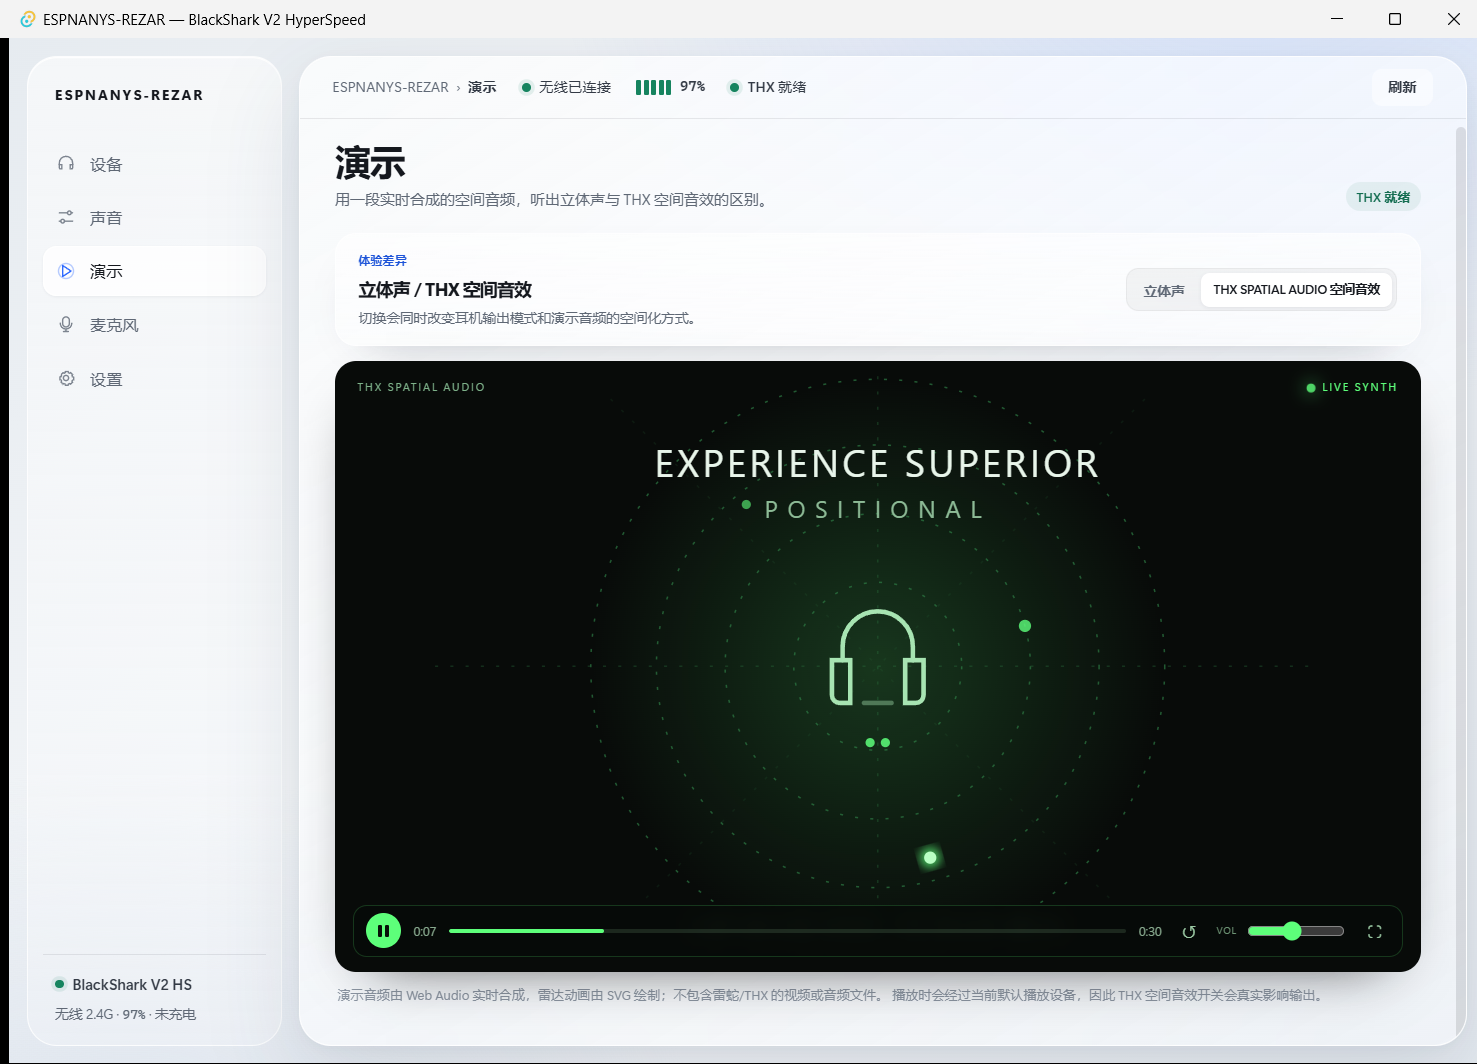
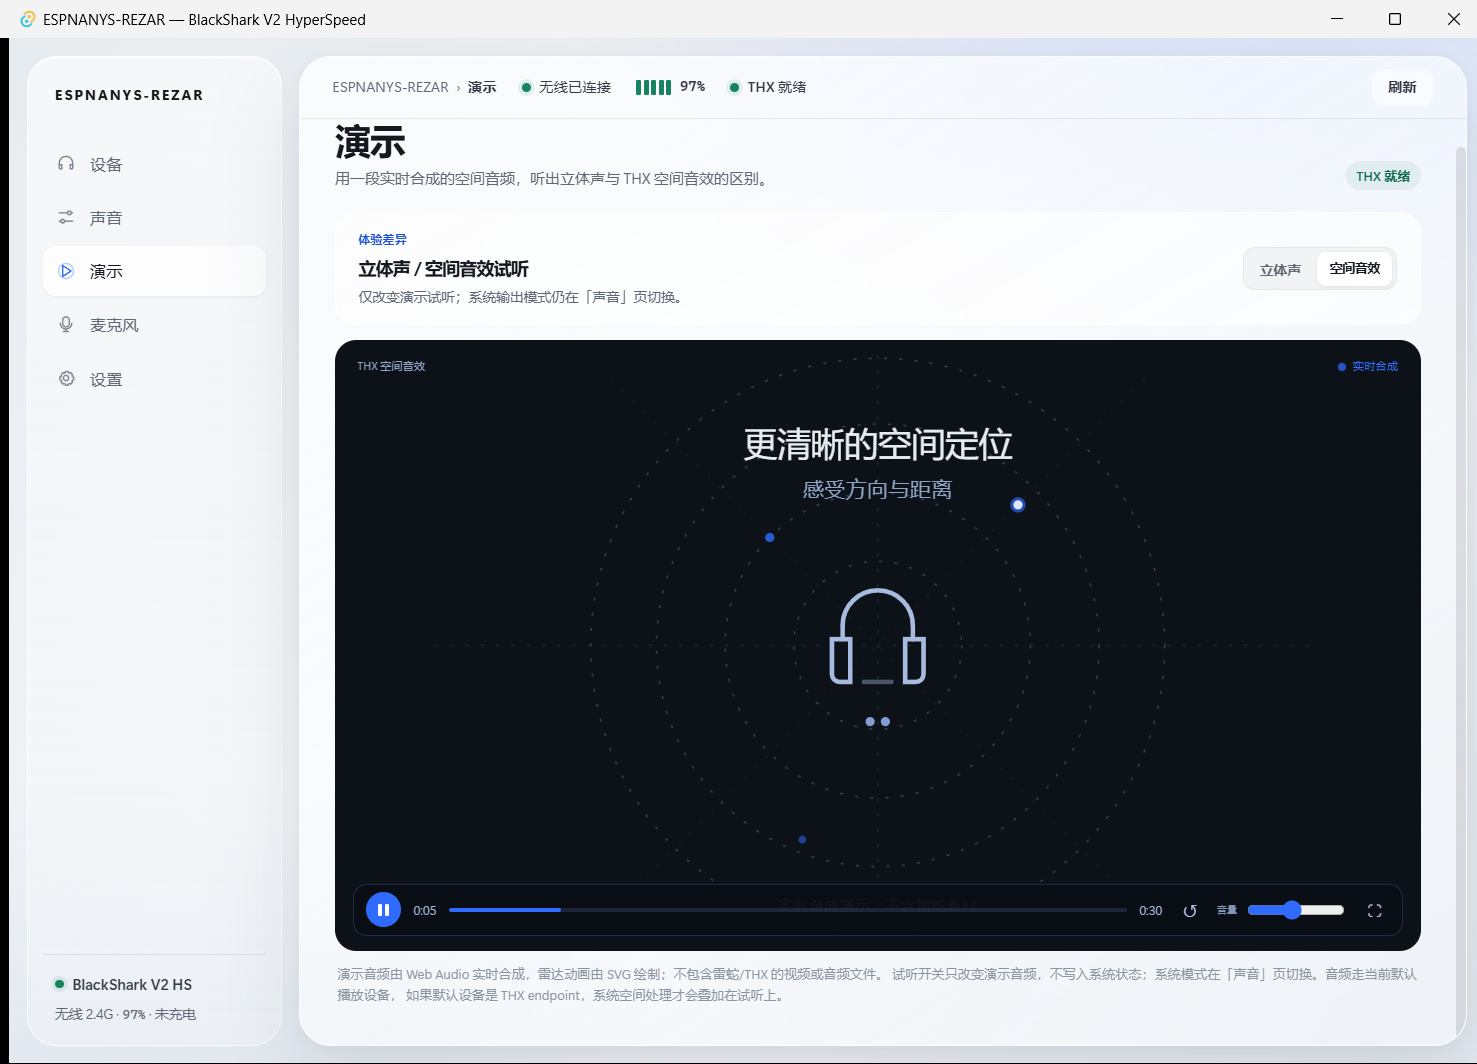
Harden demo audition and align it with the design system

diff --git a/ui/src/lib/components/DemoPanel.svelte b/ui/src/lib/components/DemoPanel.svelte
@@ -23,12 +23,13 @@
   let angle = $state(0);
   let volume = $state(45);
   let audioError = $state("");
+  let startPending = false;
+  let demoSpatial = $state(false);
+  let initialized = false;
 
   let available = $derived(!!device.thx?.installed);
-  let spatial = $derived(device.thx?.spatialEnabled ?? false);
   let timeText = $derived(formatTime(elapsed % 30));
   let progress = $derived(((elapsed % 30) / 30) * 100);
-  let canToggleSpatial = $derived(available && !device.busy && device.thx?.spatialEnabled !== null);
 
   function formatTime(value: number): string {
     const total = Math.max(0, Math.floor(value));
@@ -64,8 +65,18 @@
     const stereoPannerNode = context.createStereoPanner();
     stereoPannerNode.pan.value = 0;
     const stereoLevel = context.createGain();
-    stereoLevel.gain.value = spatial ? 0 : 1;
-    stereoPannerNode.connect(stereoLevel);
+    stereoLevel.gain.value = demoSpatial ? 0 : 1;
+    // A short right-channel delay gives the stereo audition a real L/R width
+    // instead of a single mono image. The spatial path uses HRTF below.
+    const stereoWidth = context.createDelay(0.05);
+    stereoWidth.delayTime.value = 0.012;
+    const splitter = context.createChannelSplitter(2);
+    const merger = context.createChannelMerger(2);
+    stereoPannerNode.connect(splitter);
+    splitter.connect(merger, 0, 0);
+    splitter.connect(stereoWidth, 0, 0);
+    stereoWidth.connect(merger, 0, 1);
+    merger.connect(stereoLevel);
 
     const spatialPannerNode = context.createPanner();
     spatialPannerNode.panningModel = "HRTF";
@@ -74,7 +85,7 @@
     spatialPannerNode.maxDistance = 10;
     spatialPannerNode.rolloffFactor = 1.1;
     const spatialLevel = context.createGain();
-    spatialLevel.gain.value = spatial ? 1 : 0;
+    spatialLevel.gain.value = demoSpatial ? 1 : 0;
     spatialPannerNode.connect(spatialLevel);
 
     const output = context.createGain();
@@ -95,8 +106,8 @@
   function applyMode() {
     if (!audio || !stereoBranch || !spatialBranch) return;
     const now = audio.currentTime;
-    stereoBranch.gain.setTargetAtTime(spatial ? 0 : 1, now, 0.02);
-    spatialBranch.gain.setTargetAtTime(spatial ? 1 : 0, now, 0.02);
+    stereoBranch.gain.setTargetAtTime(demoSpatial ? 0 : 1, now, 0.02);
+    spatialBranch.gain.setTargetAtTime(demoSpatial ? 1 : 0, now, 0.02);
   }
 
   function applyVolume() {
@@ -107,7 +118,9 @@
   function tick() {
     if (!playing || !audio) return;
     elapsed = Math.max(0, audio.currentTime - startedAt);
-    angle = (elapsed * 62) % 360;
+    // The stereo audition stays centered; only the spatial path orbits, so the
+    // visual difference matches the audible A/B.
+    angle = demoSpatial ? (elapsed * 62) % 360 : 0;
     if (panner) {
       const radians = (angle * Math.PI) / 180;
       panner.setPosition(Math.cos(radians) * 2.2, 0, Math.sin(radians) * 2.2);
@@ -116,6 +129,9 @@
   }
 
   async function play() {
+    if (startPending) return;
+    startPending = true;
+    audioError = "";
     try {
       const context = ensureAudio();
       await context.resume();
@@ -124,8 +140,8 @@
         next.buffer = makePingBuffer(context);
         next.loop = true;
         const input = context.createGain();
-        // The branch gains already carry the mode; this node is the shared mono
-        // source for both the stereo and HRTF paths.
+        // This shared mono input feeds both the fixed stereo panner and the
+        // animated HRTF panner; the branch gains select the audible path.
         next.connect(input);
         input.connect(stereoPanner as StereoPannerNode);
         input.connect(panner as PannerNode);
@@ -139,6 +155,8 @@
       tick();
     } catch (error) {
       audioError = error instanceof Error ? error.message : String(error);
+    } finally {
+      startPending = false;
     }
   }
 
@@ -150,13 +168,15 @@
   }
 
   function togglePlay() {
+    if (startPending) return;
     if (playing) void pause();
     else void play();
   }
 
-  async function toggleSpatial(enabled: boolean) {
-    if (!canToggleSpatial) return;
-    await device.setSpatial(enabled);
+  function toggleSpatial(enabled: boolean) {
+    // Audition-only switch: it must work without THX installed and must not
+    // mutate the system output mode. The real switch lives on the Sound page.
+    demoSpatial = enabled;
   }
 
   async function toggleFullscreen() {
@@ -185,7 +205,17 @@
   }
 
   $effect(() => {
+    // Seed the audition mode from the system once, then keep the demo local.
+    if (!initialized && device.thx) {
+      demoSpatial = device.thx.spatialEnabled ?? false;
+      initialized = true;
+    }
+  });
+
+  $effect(() => {
     // Keep the branch gains and volume in sync without rebuilding the graph.
+    demoSpatial;
+    volume;
     applyMode();
     applyVolume();
   });
@@ -217,46 +247,34 @@
   <section class="demo-controls" aria-labelledby="demo-mode-title">
     <div>
       <div class="eyebrow">体验差异</div>
-      <h2 id="demo-mode-title">立体声 / THX 空间音效</h2>
-      <p>切换会同时改变耳机输出模式和演示音频的空间化方式。</p>
+      <h2 id="demo-mode-title">立体声 / 空间音效试听</h2>
+      <p>仅改变演示试听；系统输出模式仍在「声音」页切换。</p>
     </div>
-    <div class="preset-seg demo-seg" role="group" aria-label="演示输出模式">
+    <div class="preset-seg demo-seg" role="group" aria-label="演示试听模式">
       <button
         type="button"
-        class:on={!spatial}
-        disabled={!canToggleSpatial}
-        aria-pressed={!spatial}
+        class:on={!demoSpatial}
+        aria-pressed={!demoSpatial}
         onclick={() => toggleSpatial(false)}
       >立体声</button>
       <button
         type="button"
-        class:on={spatial}
-        disabled={!canToggleSpatial}
-        aria-pressed={spatial}
+        class:on={demoSpatial}
+        aria-pressed={demoSpatial}
         onclick={() => toggleSpatial(true)}
-      >THX SPATIAL AUDIO 空间音效</button>
+      >空间音效</button>
     </div>
   </section>
 
   <div class="demo-stage" class:playing bind:this={stageEl}>
     <div class="demo-stage-top">
-      <span>THX SPATIAL AUDIO</span>
-      <span class="demo-live"><i></i> LIVE SYNTH</span>
+      <span>THX 空间音效</span>
+      <span class="demo-live"><i></i> 实时合成</span>
     </div>
 
     <svg class="demo-radar" viewBox="0 0 600 400" role="img" aria-label="空间音频演示雷达">
-      <defs>
-        <radialGradient id="demo-glow" cx="50%" cy="50%" r="50%">
-          <stop offset="0%" stop-color="#5dff7a" stop-opacity=".18" />
-          <stop offset="100%" stop-color="#5dff7a" stop-opacity="0" />
-        </radialGradient>
-        <filter id="demo-blur">
-          <feGaussianBlur stdDeviation="3" />
-        </filter>
-      </defs>
-      <rect width="600" height="400" fill="#080b09" />
-      <circle cx="300" cy="200" r="188" fill="url(#demo-glow)" />
-      <g fill="none" stroke="#2c7a43" stroke-width="1" stroke-dasharray="2 8" opacity=".7">
+      <rect width="600" height="400" fill="#0d1118" />
+      <g fill="none" stroke="rgba(157, 192, 255, 0.26)" stroke-width="1" stroke-dasharray="2 8">
         <circle cx="300" cy="200" r="55" />
         <circle cx="300" cy="200" r="100" />
         <circle cx="300" cy="200" r="145" />
@@ -265,23 +283,23 @@
         <path d="M125 25 475 375M475 25 125 375" opacity=".2" />
       </g>
       <g class="demo-orbit" transform={`rotate(${angle} 300 200)`}>
-        <circle cx="430" cy="200" r="7" fill="#5dff7a" filter="url(#demo-blur)" opacity=".7" />
-        <circle cx="430" cy="200" r="4" fill="#b9ffc4" />
-        <circle cx="300" cy="100" r="4" fill="#5dff7a" opacity=".8" />
-        <circle cx="175" cy="255" r="3" fill="#5dff7a" opacity=".6" />
+        <circle cx="430" cy="200" r="5" fill="var(--sail-blue)" opacity=".65" />
+        <circle cx="430" cy="200" r="3" fill="#dce8ff" />
+        <circle cx="300" cy="100" r="3" fill="var(--sail-blue)" opacity=".8" />
+        <circle cx="175" cy="255" r="2.5" fill="var(--sail-blue)" opacity=".55" />
       </g>
-      <g fill="none" stroke="#b7f7c2" stroke-width="3" stroke-linecap="round" opacity=".9">
+      <g fill="none" stroke="#b8cdf5" stroke-width="3" stroke-linecap="round" opacity=".9">
         <path d="M277 196v-9a23 23 0 0 1 46 0v9" />
         <path d="M270 196h12v28h-7a5 5 0 0 1-5-5zM318 196h12v23a5 5 0 0 1-5 5h-7z" />
         <path d="M291 224h18" opacity=".4" />
       </g>
-      <g fill="#5dff7a" opacity=".85">
+      <g fill="#9dc0ff" opacity=".8">
         <circle cx="295" cy="250" r="3" />
         <circle cx="305" cy="250" r="3" />
       </g>
-      <text x="300" y="76" text-anchor="middle" fill="#e8f5ea" font-size="25" font-family="Segoe UI, sans-serif" letter-spacing="2">EXPERIENCE SUPERIOR</text>
-      <text x="300" y="103" text-anchor="middle" fill="#8dbb96" font-size="16" font-family="Segoe UI, sans-serif" letter-spacing="6">POSITIONAL</text>
-      <text x="300" y="374" text-anchor="middle" fill="#5d7f63" font-size="10" font-family="Segoe UI, sans-serif" letter-spacing="2">SYNTHESIZED DEMO · NO RAZER MEDIA</text>
+      <text x="300" y="76" text-anchor="middle" fill="#e7ecf1" font-size="22" font-family="Segoe UI, sans-serif">更清晰的空间定位</text>
+      <text x="300" y="103" text-anchor="middle" fill="#8da4c4" font-size="14" font-family="Segoe UI, sans-serif">感受方向与距离</text>
+      <text x="300" y="374" text-anchor="middle" fill="#6f8198" font-size="10" font-family="Segoe UI, sans-serif">实时合成演示，不含雷蛇素材</text>
     </svg>
 
     <div class="demo-toolbar">
@@ -297,7 +315,7 @@
       <span class="demo-time">0:30</span>
       <button class="demo-icon-btn" type="button" aria-label="重新开始演示" onclick={restart}>↺</button>
       <label class="demo-volume">
-        <span aria-hidden="true">VOL</span>
+        <span aria-hidden="true">音量</span>
         <input
           type="range"
           min="0"
@@ -317,6 +335,7 @@
   {/if}
   <p class="demo-footnote">
     演示音频由 Web Audio 实时合成，雷达动画由 SVG 绘制；不包含雷蛇/THX 的视频或音频文件。
-    播放时会经过当前默认播放设备，因此 THX 空间音效开关会真实影响输出。
+    试听开关只改变演示音频，不写入系统状态；系统模式在「声音」页切换。音频走当前默认播放设备，
+    如果默认设备是 THX endpoint，系统空间处理才会叠加在试听上。
   </p>
 </div>

diff --git a/ui/src/app.css b/ui/src/app.css
@@ -520,8 +520,7 @@ input[type="range"] { accent-color: var(--sail-blue); }
   padding: 14px 18px;
   border-radius: 17px;
   border: 1px solid rgba(255,255,255,.76);
-  background: linear-gradient(180deg, rgba(255,255,255,.66), rgba(255,255,255,.42));
-  box-shadow: 0 14px 38px -28px rgba(20,28,45,.5);
+  background: rgba(255,255,255,.62);
 }
 .demo-controls h2 { margin: 2px 0 0; font-size: 14px; letter-spacing: -.02em; }
 .demo-controls p { margin: 4px 0 0; color: var(--sail-muted); font-size: 11px; }
@@ -534,8 +533,7 @@ input[type="range"] { accent-color: var(--sail-blue); }
   width: 100%;
   aspect-ratio: 16 / 9;
   border-radius: 17px;
-  background: #080b09;
-  box-shadow: 0 18px 48px -28px rgba(0,0,0,.8);
+  background: #0d1118;
 }
 .demo-stage:fullscreen { width: 100vw; height: 100vh; border-radius: 0; }
 .demo-radar { display: block; width: 100%; height: 100%; }
@@ -544,15 +542,14 @@ input[type="range"] { accent-color: var(--sail-blue); }
   inset: 14px 18px auto;
   display: flex;
   justify-content: space-between;
-  color: #7eb28a;
+  color: #8da4c4;
   font-size: 9px;
-  letter-spacing: .16em;
   pointer-events: none;
 }
-.demo-live { display: inline-flex; align-items: center; gap: 6px; color: #5dff7a; }
+.demo-live { display: inline-flex; align-items: center; gap: 6px; color: var(--sail-blue); }
 .demo-live i {
   width: 6px; height: 6px; border-radius: 50%;
-  background: #5dff7a; box-shadow: 0 0 12px #5dff7a;
+  background: var(--sail-blue);
   animation: demo-pulse 1.4s ease-in-out infinite;
 }
 @keyframes demo-pulse { 0%,100% { opacity: .45; transform: scale(.8); } 50% { opacity: 1; transform: scale(1.25); } }
@@ -564,41 +561,40 @@ input[type="range"] { accent-color: var(--sail-blue); }
   gap: 10px;
   min-height: 38px;
   padding: 6px 10px;
-  border: 1px solid rgba(93,255,122,.18);
+  border: 1px solid rgba(125, 162, 255, .2);
   border-radius: 11px;
-  background: rgba(5,10,7,.72);
-  color: #a7c9ae;
-  backdrop-filter: blur(8px);
+  background: rgba(9, 13, 20, .92);
+  color: #a9bfdc;
 }
 .demo-play {
   display: grid; place-items: center;
   width: 28px; height: 28px; flex: 0 0 28px;
   border: 0; border-radius: 50%;
-  background: #5dff7a; color: #071108;
+  background: var(--sail-blue); color: #fff;
   cursor: pointer;
 }
-.demo-play:hover { background: #8aff9d; }
+.demo-play:hover { background: var(--sail-blue-deep); }
 .demo-play-icon {
   width: 0; height: 0; margin-left: 2px;
   border-top: 6px solid transparent;
   border-bottom: 6px solid transparent;
-  border-left: 9px solid #071108;
+  border-left: 9px solid #fff;
 }
 .demo-pause-icon { display: flex; gap: 3px; }
-.demo-pause-icon::before, .demo-pause-icon::after { content: ""; width: 3px; height: 10px; border-radius: 1px; background: #071108; }
-.demo-time { flex: 0 0 auto; color: #87a98e; font-size: 10px; font-variant-numeric: tabular-nums; }
-.demo-progress { flex: 1 1 auto; height: 3px; overflow: hidden; border-radius: 4px; background: rgba(180,255,195,.12); }
-.demo-progress i { display: block; height: 100%; border-radius: inherit; background: #5dff7a; transition: width .12s linear; }
+.demo-pause-icon::before, .demo-pause-icon::after { content: ""; width: 3px; height: 10px; border-radius: 1px; background: #fff; }
+.demo-time { flex: 0 0 auto; color: #9db4d4; font-size: 10px; font-variant-numeric: tabular-nums; }
+.demo-progress { flex: 1 1 auto; height: 3px; overflow: hidden; border-radius: 4px; background: rgba(125, 162, 255, .16); }
+.demo-progress i { display: block; height: 100%; border-radius: inherit; background: var(--sail-blue); transition: width .12s linear; }
 .demo-icon-btn {
   flex: 0 0 auto;
   width: 24px; height: 24px;
   border: 0; border-radius: 6px;
-  background: transparent; color: #9bcaa4;
+  background: transparent; color: #a9c4e8;
   font-size: 14px; cursor: pointer;
 }
-.demo-icon-btn:hover { background: rgba(93,255,122,.1); color: #c8ffd1; }
-.demo-volume { display: flex; align-items: center; gap: 6px; flex: 0 0 auto; color: #6d9475; font-size: 8px; letter-spacing: .08em; }
-.demo-volume input { width: 78px; accent-color: #5dff7a; }
+.demo-icon-btn:hover { background: rgba(125, 162, 255, .12); color: #dce8ff; }
+.demo-volume { display: flex; align-items: center; gap: 6px; flex: 0 0 auto; color: #7f95b3; font-size: 8px; }
+.demo-volume input { width: 78px; accent-color: var(--sail-blue); }
 .demo-footnote { margin: 10px 2px 0; color: var(--sail-faint); font-size: 10.5px; line-height: 1.6; }
 @media (max-width: 900px) {
   .demo-controls { align-items: flex-start; flex-direction: column; }

diff --git a/ui/src/lib/components/EqEditor.svelte b/ui/src/lib/components/EqEditor.svelte
@@ -41,10 +41,9 @@
   }
 
   function updateDraft(index: number, raw: string) {
+    // Keep the raw string local. Applying on each keystroke made Escape
+    // unable to undo the edit and broke intermediate values like "-".
     drafts[index] = raw;
-    if (raw.trim() === "") return;
-    const value = Number(raw);
-    if (Number.isFinite(value)) oninput(index, clamp(value));
   }
 
   function commitDraft(index: number) {

diff --git a/ui/src/lib/components/SoundPanel.svelte b/ui/src/lib/components/SoundPanel.svelte
@@ -108,7 +108,7 @@
       disabled={spatialBusy}
       aria-pressed={spatial === true}
       onclick={() => chooseSpatial(true)}
-    >THX SPATIAL AUDIO 空间音效</button>
+    >THX 空间音效</button>
   </div>
 </section>
 

diff --git a/sail_core/src/lib.rs b/sail_core/src/lib.rs
@@ -107,6 +107,11 @@ impl Command {
             _ => 0x80,
         }
     }
+
+    /// Dongle LED is the one GET that disables the device-specific get flag.
+    pub const fn wants_zero_flag(self) -> bool {
+        matches!(self, Self::DongleLed)
+    }
 }
 
 #[derive(Debug, Clone, Copy, PartialEq, Eq)]
@@ -372,7 +377,7 @@ impl<T: Transport> SailDevice<T> {
         let flags9 = match command.class() {
             // DongleLed is the one GET that always wants 0x00; other GETs
             // use the wired/wireless device policy supplied by the transport.
-            RequestClass::Get if command.flags9() == 0x00 => 0x00,
+            RequestClass::Get if command.wants_zero_flag() => 0x00,
             RequestClass::Get => self.get_flags9,
             // set1/set10 always use 0x80, including on wired 0x056E.
             RequestClass::Set1 | RequestClass::Set10 => 0x80,

diff --git a/sail_thx_bridge/src/bin/sail_thx.rs b/sail_thx_bridge/src/bin/sail_thx.rs
@@ -38,6 +38,14 @@ fn run() -> Result<(), Box<dyn std::error::Error>> {
             None => ThxBridge::open_passive()?,
         }
         .status()?;
+        // Do not construct the activating bridge unless we can restore both
+        // pieces of user state afterwards. The active constructor enables
+        // normalization; an unknown prior state would leave it on.
+        if observed.enabled.is_none()
+            || !matches!(observed.level, Some(level) if (1..=100).contains(&level))
+        {
+            return Err("cannot verify: normalization state is unavailable".into());
+        }
         let bridge = match &dll {
             Some(path) => ThxBridge::with_dll(path)?,
             None => ThxBridge::open()?,
